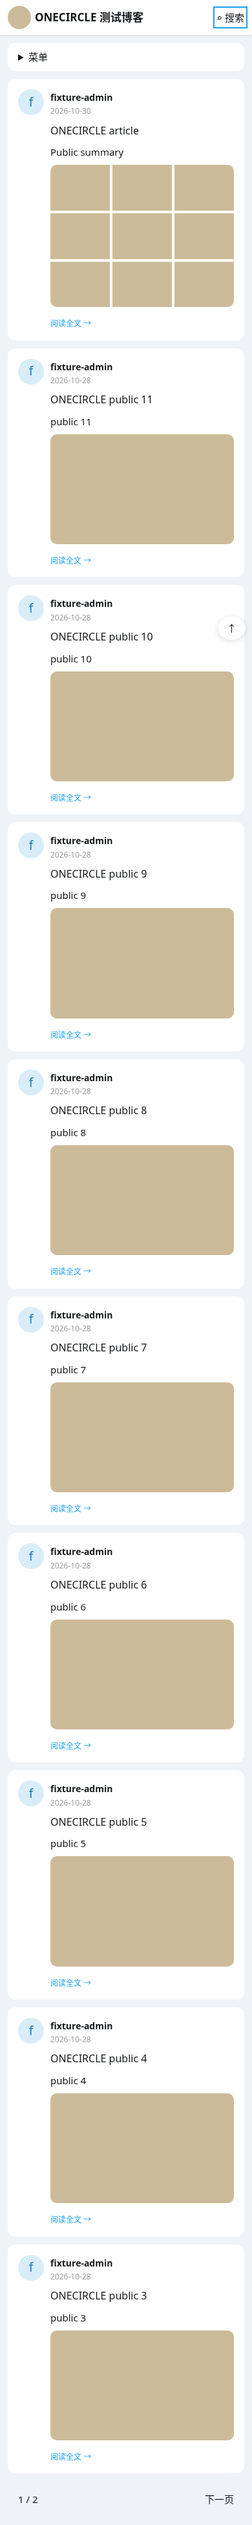
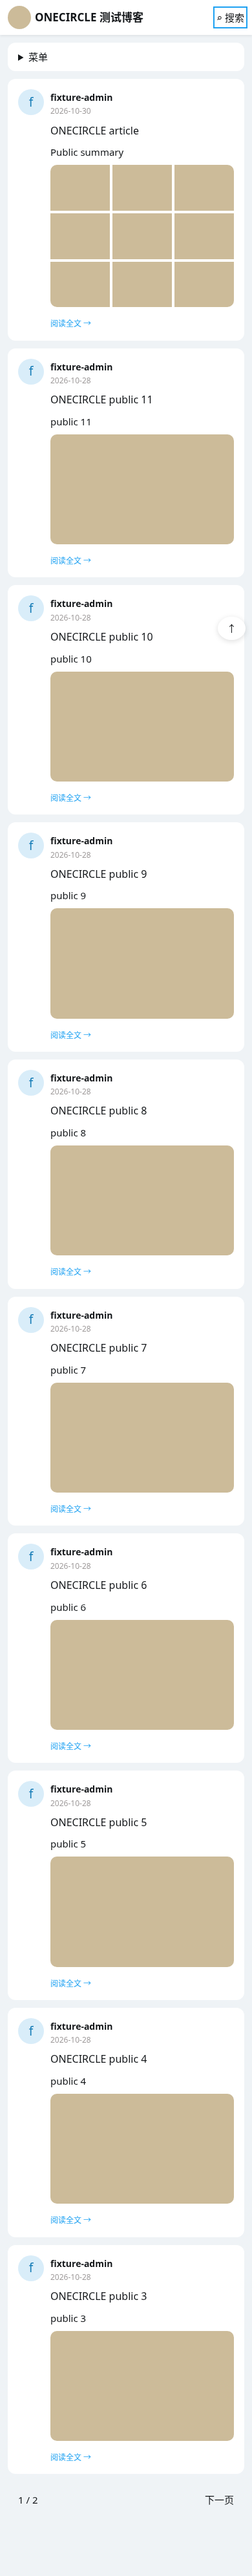
fix(onecircle): keep pagination clear of floating action

diff --git a/packages/onecircle/res/css/theme.css b/packages/onecircle/res/css/theme.css
@@ -1,2 +1,2 @@
 /* OneCircle public feed by gogobody (MIT), adapted for Firekylin2026. */
-*{box-sizing:border-box}body{margin:0;background:#eff3f6;color:#14171a;font:15px/1.6 system-ui,-apple-system,"Segoe UI",sans-serif}a{color:inherit;text-decoration:none}a:hover{color:#1da1f2}img{max-width:100%;height:auto}h1,h2,h3,p{margin-top:0}h1{font-size:26px}button,input{font:inherit}input{min-width:0;max-width:100%;padding:8px;border:1px solid #ddd;border-radius:6px}button{padding:8px 16px;border:0;border-radius:20px;background:#1da1f2;color:white;cursor:pointer}.site-header{height:54px;background:white;box-shadow:0 2px 4px #0001;position:sticky;top:0;z-index:10}.header-inner{max-width:1140px;padding:0 15px;margin:auto;height:100%;display:flex;align-items:center;justify-content:space-between;gap:16px}.brand{font-size:20px;font-weight:600;display:flex;align-items:center;gap:6px}.brand img{width:36px;height:36px;object-fit:cover;border-radius:50%}.search-menu summary{cursor:pointer;list-style:none}.search-menu form{position:absolute;right:max(16px,calc((100% - 1110px)/2));top:54px;width:min(420px,calc(100vw - 32px));background:white;padding:24px;box-shadow:0 4px 8px #0002;border-radius:0 0 12px 12px;display:flex;gap:8px;flex-wrap:wrap}.search-menu label{width:100%}.search-menu input{flex:1}.shell{max-width:1140px;padding:20px 15px;display:grid;grid-template-columns:160px minmax(0,1fr) 255px;gap:30px;margin:auto}.left-nav{position:sticky;top:74px;align-self:start}.site-menu summary{display:none}.site-menu nav{display:flex;flex-direction:column;gap:20px}.site-menu nav a{font-size:19px;font-weight:700;padding:8px 16px;border-radius:25px;display:flex;gap:14px;align-items:center}.site-menu nav a:hover{background:#1da1f21a}.site-menu nav span{font-size:24px;font-weight:400;line-height:1}.site-menu nav .rss{background:#1b9de7;color:white;justify-content:center;font-size:16px}main,.right-sidebar{min-width:0}.card{background:white;border-radius:12px;margin-bottom:12px;overflow:hidden}.profile{border:1px solid #ddd}.profile-cover{height:128px;background:#c8dce8}.profile-cover img{width:100%;height:100%;object-fit:cover}.profile-detail{padding:16px}.profile-avatar{width:64px;height:64px;object-fit:cover;border-radius:50%;border:2px solid white;position:relative;margin-top:-48px;display:block;margin-bottom:12px}.profile h2{font-size:17px;margin:0 0 4px}.profile p{font-size:13px;color:#66757f;margin:0}.card-title{font-size:16px;font-weight:400;border-bottom:1px solid #e6ecf0;margin:0;padding:12px 16px}.card ul{list-style:none;margin:0;padding:8px 16px}.card li{padding:8px 0}.right-sidebar footer{padding:16px;color:#8899a6;font-size:13px}.post-article{display:flex;gap:12px;background:white;border-radius:12px;padding:24px;margin-bottom:12px;overflow:hidden;transition:box-shadow .2s}.post-article:hover{box-shadow:0 1px 3px #0002,0 1px 20px #9db6c81a}.post-avatar{width:40px;height:40px;flex-shrink:0;border-radius:50%;background:#d9edf9;color:#177db7;display:grid;place-items:center;font-size:19px}.post-body{min-width:0;flex:1}.post-body header strong{font-size:14px}.post-body header time{display:block;font-size:12px;color:#9f9b9b}.post-body h2{font-size:16px;font-weight:400;margin:8px 0}.excerpt{overflow-wrap:anywhere;margin-bottom:8px}.excerpt p{margin:0}.gallery{overflow:hidden;border-radius:10px;margin:8px 0}.gallery-grid{display:grid;grid-template-columns:repeat(3,minmax(0,1fr));gap:4px}.gallery-grid img{width:100%;aspect-ratio:1.3;object-fit:cover;display:block}.gallery-single img{width:100%;max-height:400px;object-fit:cover;display:block}.post-actions{display:flex;justify-content:space-between;gap:12px;margin-top:16px;font-size:12px;color:#8899a6}.post-actions a{color:#1da1f2}.article-detail{padding:24px}.meta{color:#8899a6;font-size:13px;margin-bottom:24px}.prose{overflow-wrap:anywhere}.prose a{color:#1da1f2}.prose pre{overflow:auto;padding:16px;background:#eff3f6}.prose table{display:block;overflow:auto;border-collapse:collapse}.prose td,.prose th{border:1px solid #ddd;padding:10px}.prose blockquote{border-left:3px solid #1da1f2;padding-left:16px;margin-left:0;color:#66757f}.tags{margin:24px 0}.tags a{color:#1da1f2;background:#eff3f6;border-radius:20px;padding:4px 10px}.directory,.empty{background:white;border-radius:12px;padding:24px}.directory li{margin:8px 0}.pagination{display:flex;gap:12px;padding:16px}.pagination a[rel=next]{margin-left:auto}.to-top{position:fixed;right:16px;bottom:16px;background:white;border-radius:50%;padding:6px 14px;box-shadow:0 2px 8px #0002}.skip{position:fixed;top:-100px;background:white;z-index:20;padding:12px}.skip:focus{top:0}:focus-visible{outline:2px solid #1da1f2;outline-offset:3px}a,h1{overflow-wrap:anywhere}@media(min-width:1800px){.shell,.header-inner{max-width:1300px}}@media(max-width:1100px){.shell{grid-template-columns:140px minmax(0,1fr) 230px;gap:20px}}@media(max-width:991px){.right-sidebar{display:none}.shell{grid-template-columns:140px minmax(0,1fr)}}@media(max-width:767px){.shell{display:block;padding:12px}.left-nav{position:relative;top:0;background:white;border-radius:12px;padding:10px 16px;margin-bottom:12px}.site-menu summary{display:list-item;cursor:pointer}.site-menu nav{gap:6px;padding-top:12px}.post-article{padding:16px;gap:10px}.article-detail{padding:20px}.brand{font-size:17px}.header-inner{padding:0 12px}.post-actions time{display:none}.to-top{right:10px;bottom:10px}}
+*{box-sizing:border-box}body{margin:0;background:#eff3f6;color:#14171a;font:15px/1.6 system-ui,-apple-system,"Segoe UI",sans-serif}a{color:inherit;text-decoration:none}a:hover{color:#1da1f2}img{max-width:100%;height:auto}h1,h2,h3,p{margin-top:0}h1{font-size:26px}button,input{font:inherit}input{min-width:0;max-width:100%;padding:8px;border:1px solid #ddd;border-radius:6px}button{padding:8px 16px;border:0;border-radius:20px;background:#1da1f2;color:white;cursor:pointer}.site-header{height:54px;background:white;box-shadow:0 2px 4px #0001;position:sticky;top:0;z-index:10}.header-inner{max-width:1140px;padding:0 15px;margin:auto;height:100%;display:flex;align-items:center;justify-content:space-between;gap:16px}.brand{font-size:20px;font-weight:600;display:flex;align-items:center;gap:6px}.brand img{width:36px;height:36px;object-fit:cover;border-radius:50%}.search-menu summary{cursor:pointer;list-style:none}.search-menu form{position:absolute;right:max(16px,calc((100% - 1110px)/2));top:54px;width:min(420px,calc(100vw - 32px));background:white;padding:24px;box-shadow:0 4px 8px #0002;border-radius:0 0 12px 12px;display:flex;gap:8px;flex-wrap:wrap}.search-menu label{width:100%}.search-menu input{flex:1}.shell{max-width:1140px;padding:20px 15px;display:grid;grid-template-columns:160px minmax(0,1fr) 255px;gap:30px;margin:auto}.left-nav{position:sticky;top:74px;align-self:start}.site-menu summary{display:none}.site-menu nav{display:flex;flex-direction:column;gap:20px}.site-menu nav a{font-size:19px;font-weight:700;padding:8px 16px;border-radius:25px;display:flex;gap:14px;align-items:center}.site-menu nav a:hover{background:#1da1f21a}.site-menu nav span{font-size:24px;font-weight:400;line-height:1}.site-menu nav .rss{background:#1b9de7;color:white;justify-content:center;font-size:16px}main,.right-sidebar{min-width:0}.card{background:white;border-radius:12px;margin-bottom:12px;overflow:hidden}.profile{border:1px solid #ddd}.profile-cover{height:128px;background:#c8dce8}.profile-cover img{width:100%;height:100%;object-fit:cover}.profile-detail{padding:16px}.profile-avatar{width:64px;height:64px;object-fit:cover;border-radius:50%;border:2px solid white;position:relative;margin-top:-48px;display:block;margin-bottom:12px}.profile h2{font-size:17px;margin:0 0 4px}.profile p{font-size:13px;color:#66757f;margin:0}.card-title{font-size:16px;font-weight:400;border-bottom:1px solid #e6ecf0;margin:0;padding:12px 16px}.card ul{list-style:none;margin:0;padding:8px 16px}.card li{padding:8px 0}.right-sidebar footer{padding:16px;color:#8899a6;font-size:13px}.post-article{display:flex;gap:12px;background:white;border-radius:12px;padding:24px;margin-bottom:12px;overflow:hidden;transition:box-shadow .2s}.post-article:hover{box-shadow:0 1px 3px #0002,0 1px 20px #9db6c81a}.post-avatar{width:40px;height:40px;flex-shrink:0;border-radius:50%;background:#d9edf9;color:#177db7;display:grid;place-items:center;font-size:19px}.post-body{min-width:0;flex:1}.post-body header strong{font-size:14px}.post-body header time{display:block;font-size:12px;color:#9f9b9b}.post-body h2{font-size:16px;font-weight:400;margin:8px 0}.excerpt{overflow-wrap:anywhere;margin-bottom:8px}.excerpt p{margin:0}.gallery{overflow:hidden;border-radius:10px;margin:8px 0}.gallery-grid{display:grid;grid-template-columns:repeat(3,minmax(0,1fr));gap:4px}.gallery-grid img{width:100%;aspect-ratio:1.3;object-fit:cover;display:block}.gallery-single img{width:100%;max-height:400px;object-fit:cover;display:block}.post-actions{display:flex;justify-content:space-between;gap:12px;margin-top:16px;font-size:12px;color:#8899a6}.post-actions a{color:#1da1f2}.article-detail{padding:24px}.meta{color:#8899a6;font-size:13px;margin-bottom:24px}.prose{overflow-wrap:anywhere}.prose a{color:#1da1f2}.prose pre{overflow:auto;padding:16px;background:#eff3f6}.prose table{display:block;overflow:auto;border-collapse:collapse}.prose td,.prose th{border:1px solid #ddd;padding:10px}.prose blockquote{border-left:3px solid #1da1f2;padding-left:16px;margin-left:0;color:#66757f}.tags{margin:24px 0}.tags a{color:#1da1f2;background:#eff3f6;border-radius:20px;padding:4px 10px}.directory,.empty{background:white;border-radius:12px;padding:24px}.directory li{margin:8px 0}.pagination{display:flex;gap:12px;padding:16px}.pagination a[rel=next]{margin-left:auto}.to-top{position:fixed;right:16px;bottom:16px;background:white;border-radius:50%;padding:6px 14px;box-shadow:0 2px 8px #0002}.skip{position:fixed;top:-100px;background:white;z-index:20;padding:12px}.skip:focus{top:0}:focus-visible{outline:2px solid #1da1f2;outline-offset:3px}a,h1{overflow-wrap:anywhere}@media(min-width:1800px){.shell,.header-inner{max-width:1300px}}@media(max-width:1100px){.shell{grid-template-columns:140px minmax(0,1fr) 230px;gap:20px}}@media(max-width:991px){.right-sidebar{display:none}.shell{grid-template-columns:140px minmax(0,1fr)}}@media(max-width:767px){.shell{display:block;padding:12px 12px 90px}.left-nav{position:relative;top:0;background:white;border-radius:12px;padding:10px 16px;margin-bottom:12px}.site-menu summary{display:list-item;cursor:pointer}.site-menu nav{gap:6px;padding-top:12px}.post-article{padding:16px;gap:10px}.article-detail{padding:20px}.brand{font-size:17px}.header-inner{padding:0 12px}.post-actions time{display:none}.to-top{right:10px;bottom:10px}}
